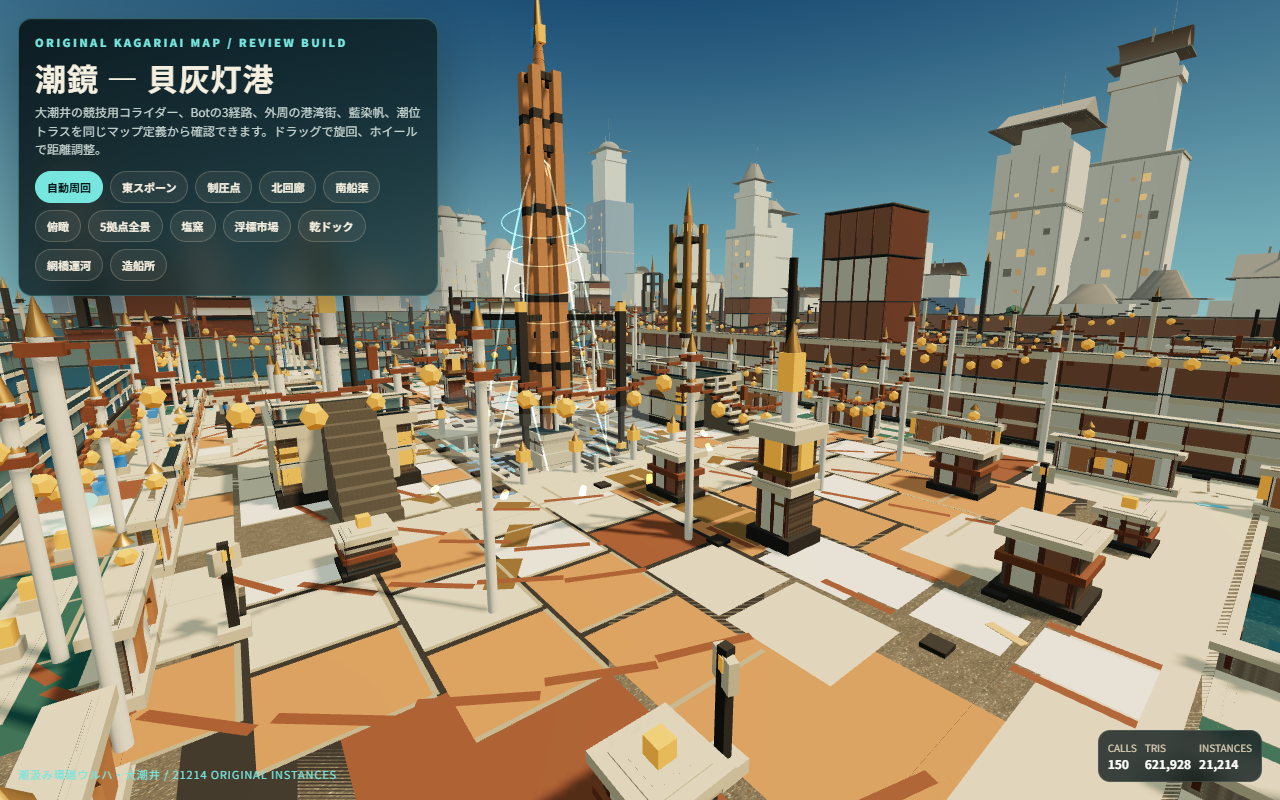
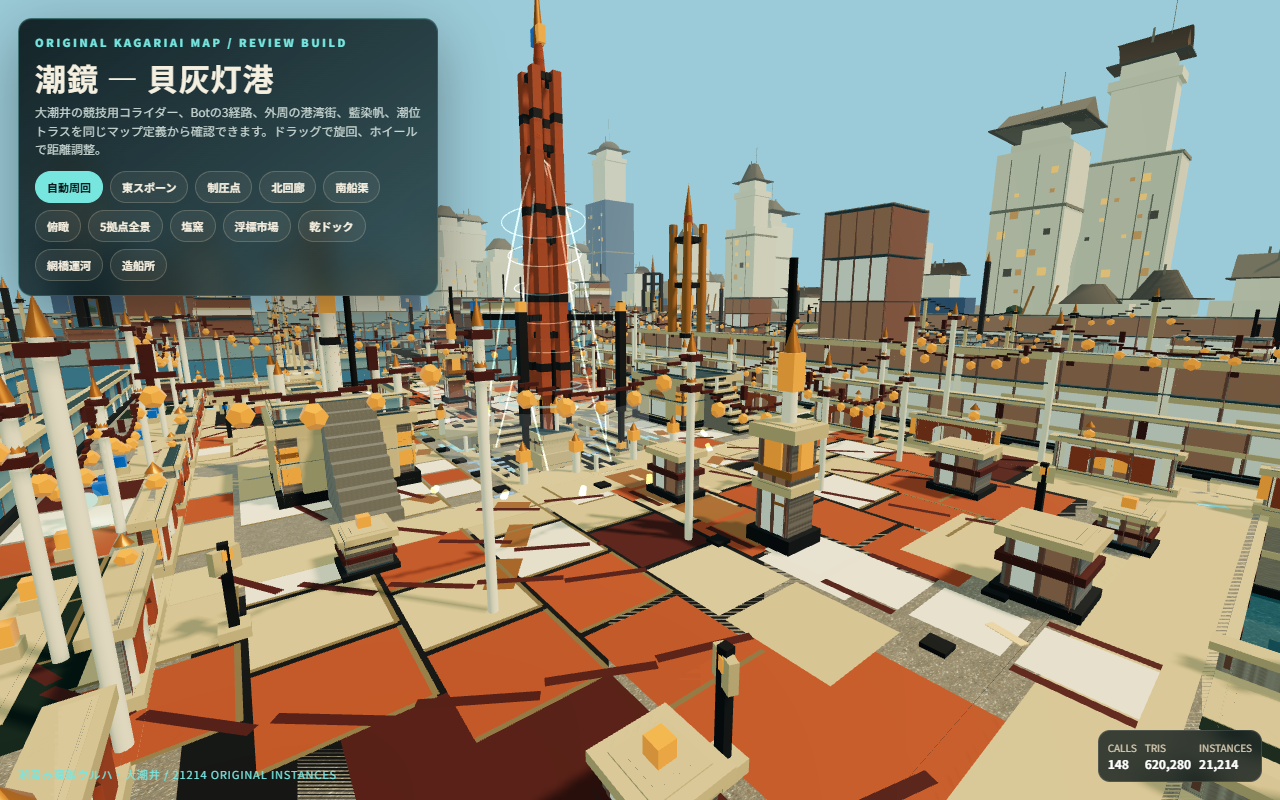
feat(render): environment map and per-instance shade, steps 5 and 2
Two material-realism steps that spend no geometry budget.

Step 5, environment map. scene.environment was never set, so every metallic
surface had nothing to reflect and simply sank dark - copper, copper roofs and
the glass materials, over 1,700 instances between them. There is no HDRI asset
here, so the environment is convolved procedurally with PMREMGenerator from a
tiny scene built out of this map's own sky colour, a tidal-reflection ground
and a bright sun patch. One texture, zero draw calls, zero triangles.
environmentIntensity is held at 0.55 because a stronger value blows out under
ACES and costs competitive readability. Failure is caught and falls back to no
environment, since this is decoration and must never break rendering. The PMREM
render target is disposed explicitly in dispose(), because scene.environment is
a texture reference rather than a child node and scene traversal cannot find it.

Step 2, per-instance shade. Hundreds of instances of one material were rendering
in exactly the same colour, so density read as repetition of one part rather
than as variety. Each instance now gets a deterministic brightness multiplier of
plus or minus 7 percent, hashed from its position so builds stay reproducible.
Only brightness moves; hue is untouched, because per-district colour is how a
player reads their location.

One bug found and fixed by looking at the render rather than the tests: Three.js
multiplies instanceColor into material.color, so seeding it with
[…]

diff --git a/client/render.js b/client/render.js
@@ -156,6 +156,21 @@ function makeSurfaceTexture(hex, variation = 0.12, seed = 1, repeat = 8) {
   return texture;
 }
 
+// インスタンスごとの決定論的な微小ゆらぎ 0..1。位置と添字から作るので、
+// 同じマップからは必ず同じ結果が出る（ビルドの再現性を壊さない）。
+function instanceJitter(position = [0, 0, 0], index = 0) {
+  const x = Math.round((position[0] ?? 0) * 16);
+  const y = Math.round((position[1] ?? 0) * 16);
+  const z = Math.round((position[2] ?? 0) * 16);
+  let h = Math.imul(x + 0x9e37, 0x85ebca6b)
+    ^ Math.imul(y + 0x27d4, 0xc2b2ae35)
+    ^ Math.imul(z + 0x165b, 0x27d4eb2f)
+    ^ Math.imul(index + 1, 0x165667b1);
+  h = (h ^ (h >>> 15)) >>> 0;
+  h = Math.imul(h, 0x2545f491) >>> 0;
+  return ((h ^ (h >>> 13)) >>> 0) / 4294967296;
+}
+
 function makeResourceRegistry() {
   return { geometries: new Set(), materials: new Set(), textures: new Set() };
 }
@@ -391,6 +406,57 @@ export class SceneRenderer {
     this.scene.add(sun);
     this.sun = sun;
     this.scene.add(new THREE.AmbientLight(0xbdd9df, 0.18));
+  }
+
+  // 環境マップ（IBL）。これが無いと metalness を持つ面は「反射するものが無い」ため
+  // ただ暗く沈み、金属が金属に見えない。銅・銅屋根・硝子の 1,700 インスタンス超が
+  // これに該当していた。外部 HDRI は持たないので、この空（0x9bcbd8）と海と太陽の
+  // 色から手続きで畳み込む。テクスチャ1枚・ドローコール0・三角形0。
+  _buildEnvironment() {
+    if (!this.renderer || typeof THREE.PMREMGenerator !== 'function') return null;
+    let pmrem = null;
+    try {
+      const envScene = new THREE.Scene();
+      // 上半球=空、下半球=潮の照り返し。GPU 上で畳み込むので面は粗くてよい。
+      const shell = new THREE.Mesh(
+        new THREE.SphereGeometry(50, 16, 12),
+        new THREE.MeshBasicMaterial({ color: 0x9bcbd8, side: THREE.BackSide }),
+      );
+      envScene.add(shell);
+      const water = new THREE.Mesh(
+        new THREE.CylinderGeometry(50, 50, 50, 16, 1, true),
+        new THREE.MeshBasicMaterial({ color: 0x6f8e86, side: THREE.BackSide }),
+      );
+      water.position.y = -25;
+      envScene.add(water);
+      // 太陽の明るい塊。金属のハイライトはここから来る。
+      const sunPatch = new THREE.Mesh(
+        new THREE.SphereGeometry(9, 12, 8),
+        new THREE.MeshBasicMaterial({ color: 0xfff0d2 }),
+      );
+      sunPatch.position.set(24, 38, -18);
+      envScene.add(sunPatch);
+
+      pmrem = new THREE.PMREMGenerator(this.renderer);
+      const target = pmrem.fromScene(envScene, 0.04);
+      this.scene.environment = target.texture;
+      // 環境光は控えめに。強くすると ACES で白く飛び、競技上の可読性が落ちる。
+      if ('environmentIntensity' in this.scene) this.scene.environmentIntensity = 0.55;
+      this._environmentTarget = target;
+      shell.geometry.dispose();
+      shell.material.dispose();
+      water.geometry.dispose();
+      water.material.dispose();
+      sunPatch.geometry.dispose();
+      sunPatch.material.dispose();
+      return target.texture;
+    } catch (error) {
+      // 環境マップは装飾であり、失敗しても描画は続行できる。
+      this.scene.environment = null;
+      return null;
+    } finally {
+      pmrem?.dispose?.();
+    }
   }
 
   _boxMesh(b, material) {
@@ -1248,14 +1314,27 @@ export class SceneRenderer {
       instances.userData.collision = false;
       instances.userData.semantics = layer.semantics;
       instances.userData.source = `map.presentation.layers.${layer.id}`;
+      // 同一マテリアルの数百インスタンスが完全に同じ色だと、密度が「多様性」ではなく
+      // 「同じ部品の反復」として読まれる。位置から決定論的に明度だけを ±7% 振る。
+      // 色相は動かさない（拠点ごとの色識別は競技上の現在地情報なので壊せない）。
+      // 三角形0・ドローコール0・インスタンス0増で、反復感だけが下がる。
+      // instanceColor は material.color に**乗算**される。ここに material.color を
+      // 掛けたものを入れると色が二乗され、彩度と暗さが跳ねる（実際に一度やった）。
+      // 入れるのは中立グレーの倍率だけにする。
+      const tint = new THREE.Color();
       transforms.forEach((transform, index) => {
-        dummy.position.set(...safeVec3(transform.position));
+        const position = safeVec3(transform.position);
+        dummy.position.set(...position);
         dummy.rotation.set(...safeVec3(transform.rotation));
         dummy.scale.set(...safeVec3(transform.scale, [1, 1, 1]));
         dummy.updateMatrix();
         instances.setMatrixAt(index, dummy.matrix);
+        const shade = 1 + (instanceJitter(position, index) - 0.5) * 0.14;
+        tint.setRGB(shade, shade, shade);
+        instances.setColorAt(index, tint);
       });
       instances.instanceMatrix.needsUpdate = true;
+      if (instances.instanceColor) instances.instanceColor.needsUpdate = true;
       instances.castShadow = layer.castShadow === true;
       instances.receiveShadow = layer.receiveShadow === true;
       group.add(instances);
@@ -2869,6 +2948,12 @@ export class SceneRenderer {
 
     globalThis.window?.removeEventListener?.('resize', this._onResize);
     this._motionQuery?.removeEventListener?.('change', this._onMotionChange);
+
+    // PMREM の render target はシーン走査では拾えない（scene.environment は
+    // texture 参照であって子ノードではない）ので、明示的に解放する。
+    this._environmentTarget?.dispose?.();
+    this._environmentTarget = null;
+    if (this.scene) this.scene.environment = null;
 
     const registry = makeResourceRegistry();
     const roots = new Set();
